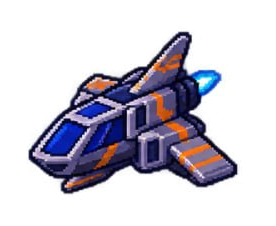
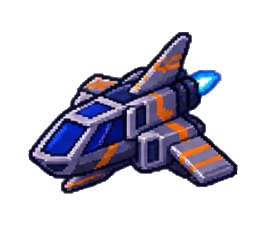
Fix spaceship white matte, seamless Earth departure, WASD placement and Myanmar Mars mission control

diff --git a/src/game/landingSequence.js b/src/game/landingSequence.js
@@ -1,3 +1,34 @@
+/** Bilingual Moon/Mars mission control. NASA names remain untouched. */
+const MYANMAR_MISSION = {
+ 'APPROACH VECTOR LOCKED':'ချဉ်းကပ်လမ်းကြောင်း အတည်ပြုပြီး',
+ 'DESCENT IN PROGRESS':'ဆင်းသက်နေသည်',
+ 'FINAL APPROACH':'ဆင်းသက်ရန် နီးကပ်နေပြီ',
+ 'TOUCHDOWN CONFIRMED':'ဆင်းသက်မှု အတည်ပြုပြီး',
+ 'EXPLORATION MISSION':'လေ့လာရေးမစ်ရှင်',
+ 'RETURN TO ORBIT':'အာကာသပတ်လမ်းသို့ ပြန်နေသည်',
+ 'CREW RECALL':'အာကာသယာဉ်မှူးအား ပြန်ခေါ်နေသည်',
+ 'Engines stabilizing. The astronaut remains inside until touchdown.':'အင်ဂျင်များ တည်ငြိမ်အောင် ထိန်းညှိနေသည်။ ဆင်းသက်ပြီးသည်အထိ အာကာသယာဉ်မှူးသည် ယာဉ်အတွင်း ရှိနေမည်။',
+ 'Ground contact confirmed. Preparing the cabin for crew exit.':'မြေပြင်နှင့် ထိတွေ့မှု အတည်ပြုပြီး။ အာကာသယာဉ်မှူး ထွက်ရန် ပြင်ဆင်နေသည်။',
+ 'The landing ship is down. Astronaut exiting the capsule now.':'ဆင်းသက်ယာဉ် ဆင်းသက်ပြီးပါပြီ။ အာကာသယာဉ်မှူးသည် ယာဉ်အတွင်းမှ ထွက်လာနေပါသည်။',
+ 'Crew safely aboard. Engines firing for departure.':'အာကာသယာဉ်မှူး ယာဉ်ပေါ်ပြန်ရောက်ပြီ။ ထွက်ခွာရန် အင်ဂျင်များ စတင်နေသည်။',
+ 'Astronaut returning to the lander. Departure systems online.':'အာကာသယာဉ်မှူး ဆင်းသက်ယာဉ်သို့ ပြန်လာနေသည်။ ထွက်ခွာရန် စနစ်များ အသင့်ဖြစ်နေပြီ။',
+ 'Touchdown confirmed · Crew hatch opening':'ဆင်းသက်ပြီး · ယာဉ်တံခါး ဖွင့်နေသည်',
+ 'Sliding to a stop':'ဖြည်းဖြည်းချင်း ရပ်တန့်နေသည်',
+ 'Lifting off':'ပြန်လည်ပျံတက်နေသည်',
+ 'Returning to the spaceship':'အာကာသယာဉ်သို့ ပြန်နေသည်',
+};
+function renderMissionText(english){
+ if(document.documentElement.lang!=='my')return english;
+ if(MYANMAR_MISSION[english])return MYANMAR_MISSION[english];
+ const entry=english.match(/^Spaceship entering (.+) approach\. Astronaut secured inside the capsule\.$/);
+ if(entry)return entry[1]+' သို့ ချဉ်းကပ်ဆင်းသက်နေသည်။ အာကာသယာဉ်မှူး ယာဉ်အတွင်း လုံခြုံစွာ ရှိနေသည်။';
+ const descent=english.match(/^Descending to (.+)$/);
+ if(descent)return descent[1]+' သို့ ဆင်းသက်နေသည်';
+ const scanned=english.match(/^Astronaut deployed\. Explore the (lunar|Martian) surface and scan all (\d+) machines\. Move with W A S D; approach an artifact, then press E to inspect\.$/);
+ if(scanned)return 'အာကာသယာဉ်မှူး ဆင်းလာပါပြီ။ '+(scanned[1]==='Martian'?'အင်္ဂါဂြိုလ်':'လ')+' မျက်နှာပြင်ကို လေ့လာပြီး စက်ပစ္စည်း '+scanned[2]+' ခုလုံးကို စကန်ဖတ်ပါ။ W A S D ဖြင့် ရွှေ့ပါ။ စက်ပစ္စည်းနားသို့ ချဉ်းကပ်ပြီး E ဖြင့် စစ်ဆေးပါ။';
+ return english;
+}
+
 /** Shared landing lifecycle and unobtrusive mission-control dialogue. */
 export function createLandingSequence({surface, world, beforeLand, onLanded, beforeLeave, board, onClosed}) {
   const title = surface.querySelector('h2');
@@ -29,17 +60,30 @@ export function createLandingSequence({surface, world, beforeLand, onLanded, bef
     clearTimeout(noticeTimeout);
     communication.hidden = true;
   }
+  let lastNotice=null;
+  let lastStatus=null;
+  function setStatus(text){lastStatus=text;status.textContent=renderMissionText(text);}
+  function refreshLanguage(){
+    if(disposed || !surface.open)return;
+    if(lastNotice){
+      communicationTitle.textContent=renderMissionText(lastNotice[0]);
+      communicationBody.textContent=renderMissionText(lastNotice[1]);
+    }
+    if(lastStatus!==null)status.textContent=renderMissionText(lastStatus);
+  }
   function announce(heading, message, holdMs = 0) {
     if(disposed || !surface.open) return;
+    lastNotice=[heading,message];
     clearTimeout(noticeTimeout);
-    communicationTitle.textContent = heading;
-    communicationBody.textContent = message;
+    communicationTitle.textContent=renderMissionText(heading);
+    communicationBody.textContent=renderMissionText(message);
     communication.hidden = false;
     if(holdMs > 0) noticeTimeout = setTimeout(() => {if(!disposed) hideNotice();}, holdMs);
   }
   const bodyName = world.id === 'moon' ? 'lunar' : 'Martian';
   const count = world.records.length;
   dismiss.addEventListener('click', hideNotice, {signal:events.signal});
+  window.addEventListener('silent:language-change',refreshLanguage,{signal:events.signal});
 
   function land() {
     if(disposed || surface.open) return;
@@ -52,7 +96,7 @@ export function createLandingSequence({surface, world, beforeLand, onLanded, bef
     surface.style.setProperty('--slide-duration', `${slideDuration}ms`);
     surface.style.setProperty('--launch-duration', `${launchDuration}ms`);
     title.textContent = world.name;
-    status.textContent = world.entry;
+    setStatus(world.entry);
     returnButton.disabled = true;
     surface.showModal();
     title.focus({preventScroll:true});
@@ -60,14 +104,14 @@ export function createLandingSequence({surface, world, beforeLand, onLanded, bef
     const crewReady = () => {
       if(disposed || !surface.open || surface.dataset.phase !== 'egress') return;
       surface.dataset.phase = 'landed';
-      status.textContent = world.arrival;
+      setStatus(world.arrival);
       returnButton.disabled = false;
       announce('EXPLORATION MISSION', `Astronaut deployed. Explore the ${bodyName} surface and scan all ${count} machines. Move with W A S D; approach an artifact, then press E to inspect.`, 9500);
     };
     const arrived = () => {
       if(disposed || !surface.open) return;
       surface.dataset.phase = 'egress';
-      status.textContent = 'Touchdown confirmed · Crew hatch opening';
+      setStatus('Touchdown confirmed · Crew hatch opening');
       announce('TOUCHDOWN CONFIRMED', 'The landing ship is down. Astronaut exiting the capsule now.');
       // Engines call crewReady only once the astronaut has visibly left the ship.
       onLanded({crewReady});
@@ -75,11 +119,11 @@ export function createLandingSequence({surface, world, beforeLand, onLanded, bef
     if(reducedMotion.matches) {arrived();return;}
     schedule(() => {
       surface.dataset.phase = 'descent';
-      status.textContent = `Descending to ${world.name}`;
+      setStatus(`Descending to ${world.name}`);
       announce('DESCENT IN PROGRESS', 'Engines stabilizing. The astronaut remains inside until touchdown.');
       schedule(() => {
         surface.dataset.phase = 'slide';
-        status.textContent = 'Sliding to a stop';
+        setStatus('Sliding to a stop');
         announce('FINAL APPROACH', 'Ground contact confirmed. Preparing the cabin for crew exit.');
         schedule(arrived, slideDuration);
       }, descentDuration);
@@ -94,13 +138,13 @@ export function createLandingSequence({surface, world, beforeLand, onLanded, bef
     const liftOff = () => {
       if(reducedMotion.matches) {closeAndLaunch();return;}
       surface.dataset.phase='launch';
-      status.textContent='Lifting off';
+      setStatus('Lifting off');
       announce('RETURN TO ORBIT', 'Crew safely aboard. Engines firing for departure.');
       schedule(closeAndLaunch,launchDuration);
     };
     if(board) {
       surface.dataset.phase='boarding';
-      status.textContent='Returning to the spaceship';
+      setStatus('Returning to the spaceship');
       announce('CREW RECALL', 'Astronaut returning to the lander. Departure systems online.');
       board(liftOff);
     } else liftOff();

diff --git a/src/App.jsx b/src/App.jsx
@@ -25,7 +25,7 @@ export default function App(){
   });
   const [launchKey,setLaunchKey]=useState(0);
   const [launchTransition,setLaunchTransition]=useState(false);
-  const [orbitalEntry,setOrbitalEntry]=useState(false);
+  const [orbitTransitionVisible,setOrbitTransitionVisible]=useState(false);
   const handoffTimer=useRef(null);
   const entryTimer=useRef(null);
   useEffect(()=>()=>{
@@ -35,6 +35,7 @@ export default function App(){
   useEffect(()=>{
     try{window.localStorage.setItem('silent:language',language)}catch{}
     document.documentElement.lang=language==='my'?'my':'en';
+    window.dispatchEvent(new CustomEvent('silent:language-change',{detail:language}));
     return localizeInterface(language);
   },[language]);
   useEffect(()=>{
@@ -77,12 +78,12 @@ export default function App(){
   const completeLaunch=useCallback(()=>{
     if(launchTransition)return;
     setLaunchTransition(true);
+    setOrbitTransitionVisible(true);
     window.clearTimeout(handoffTimer.current);
     handoffTimer.current=window.setTimeout(()=>{
       setLaunchComplete(true);
       try{window.sessionStorage.setItem('silent:stage','orbit')}catch{}
-      setOrbitalEntry(true);
-      entryTimer.current=window.setTimeout(()=>setOrbitalEntry(false),2600);
+      entryTimer.current=window.setTimeout(()=>setOrbitTransitionVisible(false),220);
     },1700);
   },[launchTransition]);
   const backToStart=useCallback(()=>{
@@ -91,7 +92,7 @@ export default function App(){
     closeArchive();
     setWorld(null);
     setLaunchTransition(false);
-    setOrbitalEntry(false);
+    setOrbitTransitionVisible(false);
     setLaunchComplete(false);
     setLaunchKey(key=>key+1);
     try{
@@ -105,7 +106,7 @@ export default function App(){
   const toggleLanguage=useCallback(()=>setLanguage(current=>current==='en'?'my':'en'),[]);
 
   return <>
-    {launchComplete && <main
+    {(launchComplete || launchTransition) && <main
       id="silent-legacy-outer-space"
       className="scene-space scene-space--visible"
     >
@@ -127,16 +128,13 @@ export default function App(){
         {language==='en'?'EN / မြန်မာ':'မြန်မာ / EN'}
       </button>
     </>}
-    {launchTransition && !launchComplete && <div className="earth-orbit-transition" aria-hidden="true">
+    {orbitTransitionVisible && <div className="earth-orbit-transition" aria-hidden="true">
       <div className="earth-orbit-transition__planet" role="img" aria-label="Earth"/>
       <img className="earth-orbit-transition__ship" src="/launch/assets/spacecraft-upright.png" alt="" />
       <div className="earth-orbit-transition__beam"/>
       <div className="earth-orbit-transition__caption">{translate(language,'EARTH DEPARTURE')} <span>→</span> {translate(language,'OUTER SPACE')}</div>
       <div className="earth-orbit-transition__sub">{translate(language,'ORBIT INSERTION COMPLETE • CONTINUING MISSION')}</div>
     </div>}
-    {orbitalEntry && <div className="orbit-entry" aria-hidden="true">
-      <img src="/launch/assets/spacecraft-cruise.png" alt="" />
-      <span>{translate(language,'SPACECRAFT IN ORBIT // NAVIGATION ONLINE')}</span>
-    </div>}
+
   </>;
 }

diff --git a/src/styles/sceneTransition.css b/src/styles/sceneTransition.css
@@ -136,3 +136,57 @@
   cursor:pointer
 }
 .launch-global-language:hover{background:#244c6f}
+
+/* One-spacecraft camera continuity: the planet recedes; the ship remains
+   the same object rising out of its atmosphere, not passing across screen. */
+.earth-orbit-transition{
+  background:radial-gradient(ellipse at 50% 80%,rgba(16,92,174,.24),transparent 58%),
+    linear-gradient(0deg,#030b21 0%,rgba(3,8,25,.95) 65%,rgba(1,4,13,.78) 100%);
+  animation:orbit-camera-crossfade 1.95s ease-in-out both;
+}
+.earth-orbit-transition__planet{
+  left:50%;bottom:-13vmin;
+  width:min(79vmin,82vw);
+  border:0;outline:0;
+  image-rendering:pixelated;
+  animation:orbit-earth-recede 1.95s cubic-bezier(.23,.72,.36,1) both;
+}
+.earth-orbit-transition__planet::after{
+  content:"";position:absolute;inset:-2.8%;border-radius:50%;
+  border:2px solid rgba(72,196,255,.52);
+  box-shadow:0 0 30px rgba(46,163,246,.33),0 0 80px rgba(34,123,225,.16);
+}
+.earth-orbit-transition__ship{
+  left:50%;
+  bottom:26%;
+  width:clamp(92px,14vw,162px);
+  max-height:26vh;
+  object-fit:contain;
+  filter:none;
+  animation:orbit-ship-departure 1.95s cubic-bezier(.3,.54,.37,.96) both;
+}
+.earth-orbit-transition__beam{
+  left:50%;
+  bottom:20%;
+  height:16vh;width:4px;
+  opacity:.42;
+  filter:blur(6px)
+}
+.earth-orbit-transition__caption{top:14%}
+.earth-orbit-transition__sub{top:22%}
+@keyframes orbit-camera-crossfade{
+  0%{opacity:0}17%,66%{opacity:1}100%{opacity:0}
+}
+@keyframes orbit-earth-recede{
+  0%{transform:translateX(-50%) scale(1.06);opacity:1}
+  100%{transform:translate(-50%,38vh) scale(.63);opacity:.1}
+}
+@keyframes orbit-ship-departure{
+  0%{transform:translate(-50%,15vh) scale(.89);opacity:.92}
+  48%{transform:translate(-50%,2vh) scale(1);opacity:1}
+  100%{transform:translate(-50%,-12vh) scale(.80);opacity:0}
+}
+@media(prefers-reduced-motion:reduce){
+  .earth-orbit-transition,.earth-orbit-transition__planet,
+  .earth-orbit-transition__ship{animation-duration:1ms}
+}

diff --git a/src/styles/outerspace.css b/src/styles/outerspace.css
@@ -295,3 +295,29 @@ html{background:#000}body{margin:0}
 #silent-legacy-outer-space .outer-earth-fallback,
 #silent-legacy-outer-space .outer-probe img,
 #silent-legacy-outer-space .outer-ship img{object-fit:contain}
+
+/* Always show orbit WASD controls at the edge, including mouse/keyboard users.
+   Center positioning is reserved for the Moon/Mars walk controllers. */
+#silent-legacy-outer-space .outer-pad{
+  display:grid!important;
+  position:absolute;right:max(12px,env(safe-area-inset-right));
+  bottom:max(12px,env(safe-area-inset-bottom));left:auto;
+  grid-template-columns:repeat(3,37px);
+  gap:3px;z-index:9;opacity:.82;
+}
+#silent-legacy-outer-space .outer-pad button{
+  width:37px;height:37px;border-radius:5px;
+  background:#061c34d9;
+  border:1px solid #5d8db9aa;
+  color:#d7ebff;font:600 13px/1 Consolas,monospace;
+}
+#silent-legacy-outer-space .outer-pad button:focus-visible{
+  outline:2px solid #a6e9ff;outline-offset:1px
+}
+#silent-legacy-outer-space .outer-pad button[data-active]{
+  background:#296187;color:#fff
+}
+@media(max-width:600px){
+ #silent-legacy-outer-space .outer-pad{bottom:max(10px,env(safe-area-inset-bottom));right:9px;grid-template-columns:repeat(3,32px);gap:3px}
+ #silent-legacy-outer-space .outer-pad button{width:32px;height:32px}
+}

diff --git a/src/styles/surface.css b/src/styles/surface.css
@@ -366,3 +366,30 @@
   #silent-legacy-outer-space .outer-surface[data-world='moon'] .outer-lunar-jump {bottom:max(78px,calc(env(safe-area-inset-bottom) + 72px));right:8px;min-width:96px;}
 }
 @media(prefers-reduced-motion:reduce){#silent-legacy-outer-space .outer-mission-dialogue{animation:none}}
+
+/* Shared central touch controller for the Moon and Mars.
+   The orbit screen deliberately keeps its own pad in the lower-right. */
+#silent-legacy-outer-space .outer-surface .outer-direction-pad{
+  left:50%;
+  right:auto;
+  bottom:max(15px,env(safe-area-inset-bottom));
+  transform:translateX(-50%);
+  grid-template:repeat(2,40px)/repeat(3,40px);
+  gap:4px;
+}
+#silent-legacy-outer-space .outer-surface[data-world='moon'] .outer-lunar-jump{
+  left:calc(50% + 96px);
+  right:auto;
+  bottom:max(18px,env(safe-area-inset-bottom));
+  min-width:70px;
+}
+@media(max-width:600px){
+  #silent-legacy-outer-space .outer-surface .outer-direction-pad{
+    left:50%;right:auto;bottom:max(12px,env(safe-area-inset-bottom));
+    grid-template:repeat(2,36px)/repeat(3,36px);gap:3px;
+  }
+  #silent-legacy-outer-space .outer-surface[data-world='moon'] .outer-lunar-jump{
+    left:calc(50% + 78px);right:auto;
+    bottom:max(12px,env(safe-area-inset-bottom));min-width:67px;
+  }
+}
